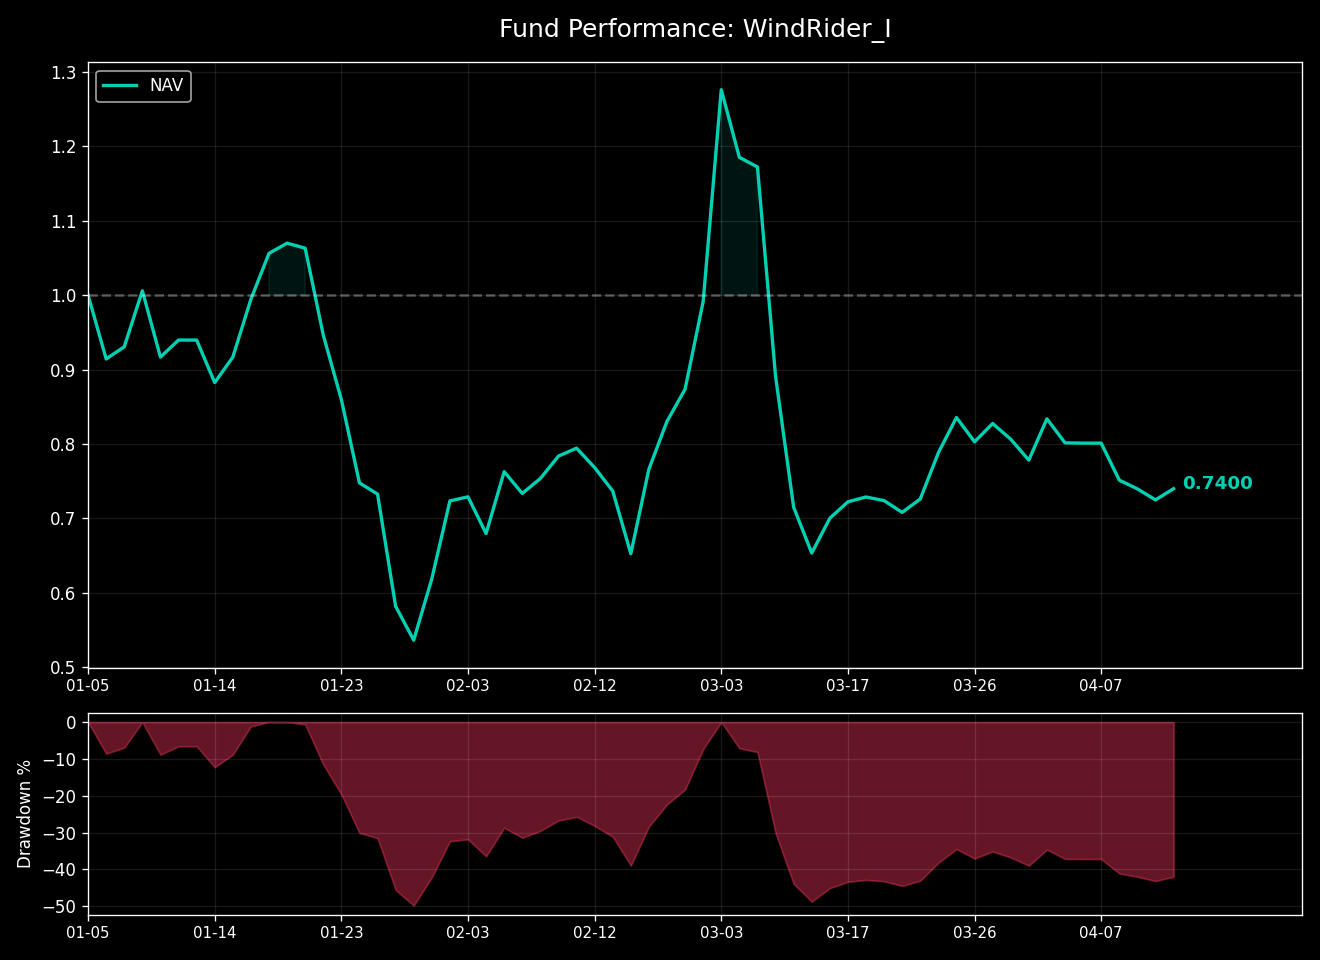
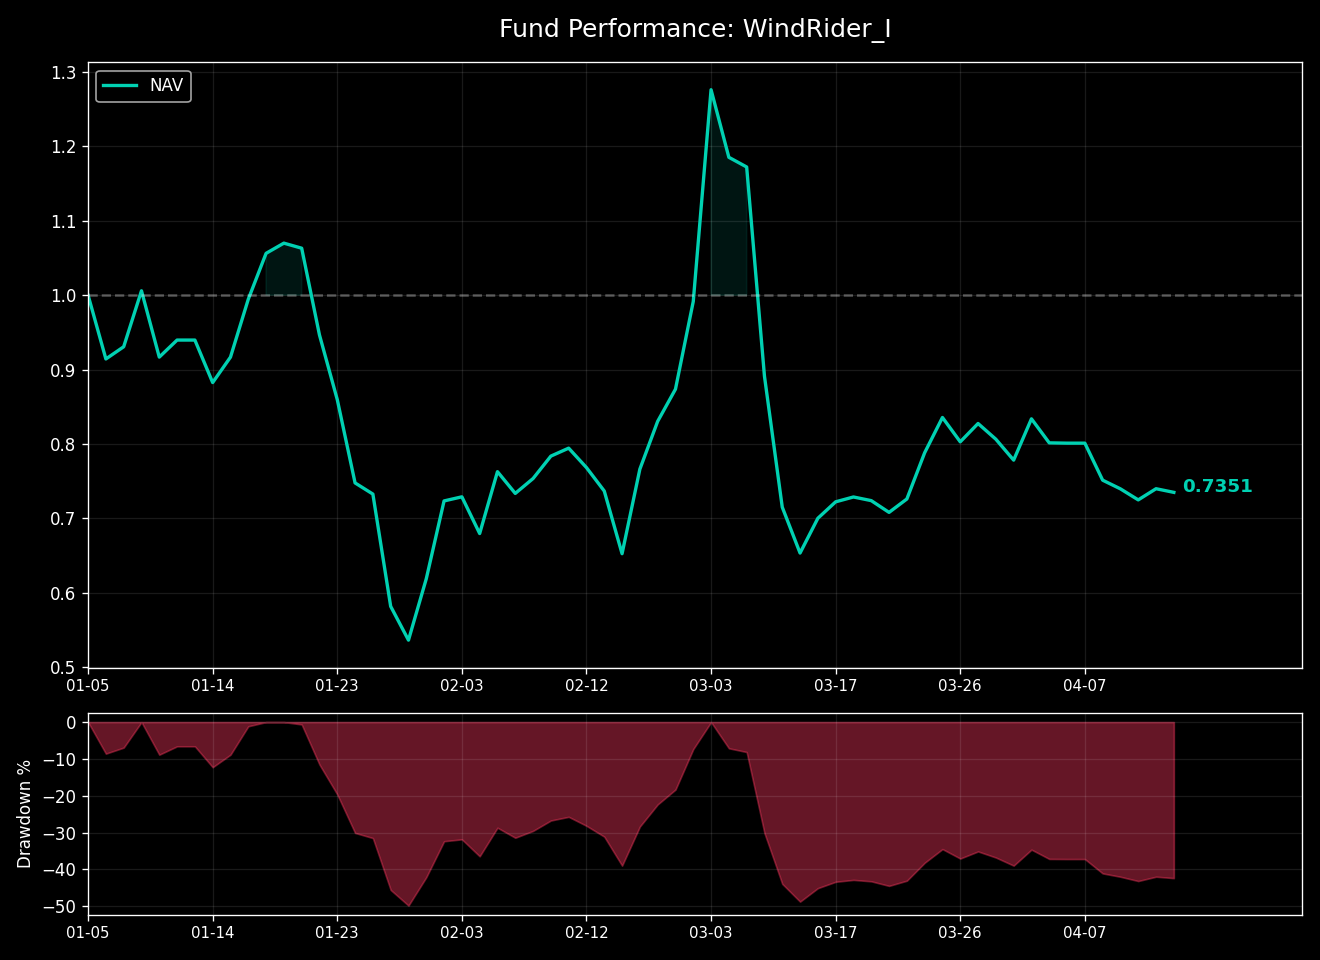
Updated Hugo site content

diff --git a/content/investment/windrider-1.md b/content/investment/windrider-1.md
@@ -1,8 +1,8 @@
 +++
 title = "风舵1号 (WindRider I)  /// 指数"
 summary = "商品期货分形摆动策略，实盘最新净值与核心风险指标。"
-date = 2026-04-13T15:15:03+08:00
-lastmod = 2026-04-13T15:15:03+08:00
+date = 2026-04-14T15:15:04+08:00
+lastmod = 2026-04-14T15:15:04+08:00
 draft = false
 description = "商品期货分形摆动策略实盘"
 +++
@@ -15,24 +15,24 @@ description = "商品期货分形摆动策略实盘"
 
 ### 风舵1号 (WindRider I) &nbsp;&nbsp;<span style="color: #E63946; font-weight: bold;">/</span><span style="color: #F1A73E; font-weight: bold;">/</span><span style="color: #000091; font-weight: bold;">/</span>&nbsp;&nbsp; 指数
 商品期货分形摆动策略实盘<br>
-净值简报 <small>(截至: 2026-04-13)</small>
+净值简报 <small>(截至: 2026-04-14)</small>
 
 |  |  |
 | :--- | :--- |
 | **指数代码：** | WDR1.CTA |
 | **起步日期：** | 2026-01-05 |
-| **最新净值：** | 0.7400 |
-| **今日涨跌：** | +2.07% |
+| **最新净值：** | 0.7351 |
+| **今日涨跌：** | -0.66% |
 
 ===========================
 
 | 核心指标 | |
 | :--- | :--- |
-| **累计涨跌：** | -26.00% |
-| **年化收益：** | -67.42% |
+| **累计涨跌：** | -26.49% |
+| **年化收益：** | -67.85% |
 | **最大回撤：** | -49.85% |
-| **卡玛比率：** | -1.35 |
-| **策略状态：** | 已运行 99 天 |
+| **卡玛比率：** | -1.36 |
+| **策略状态：** | 已运行 100 天 |
 
 ### 净值曲线
 ![风舵1号净值曲线](/images/investment/windrider_nav.png)
